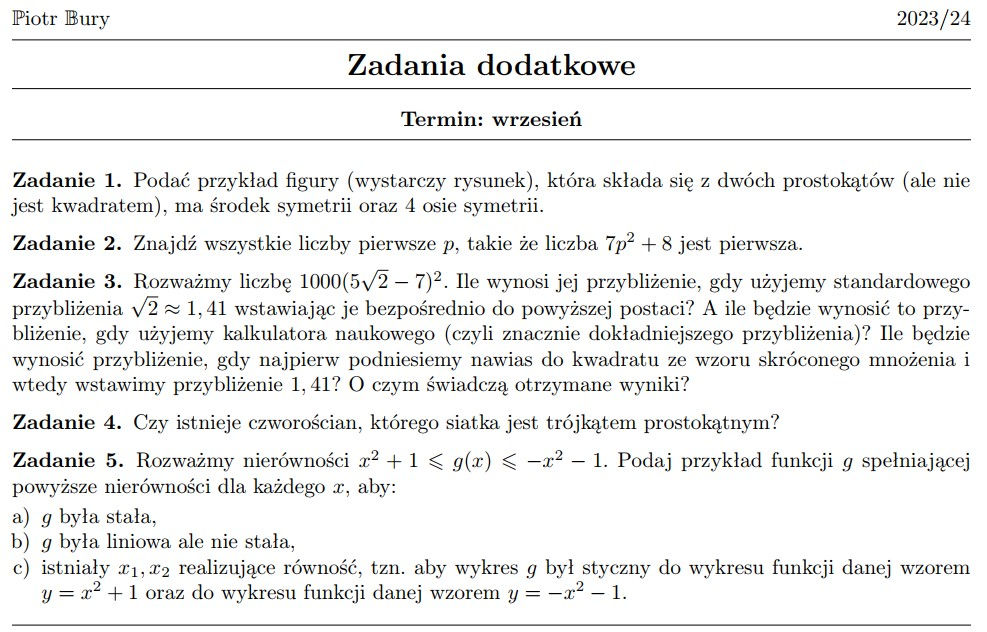
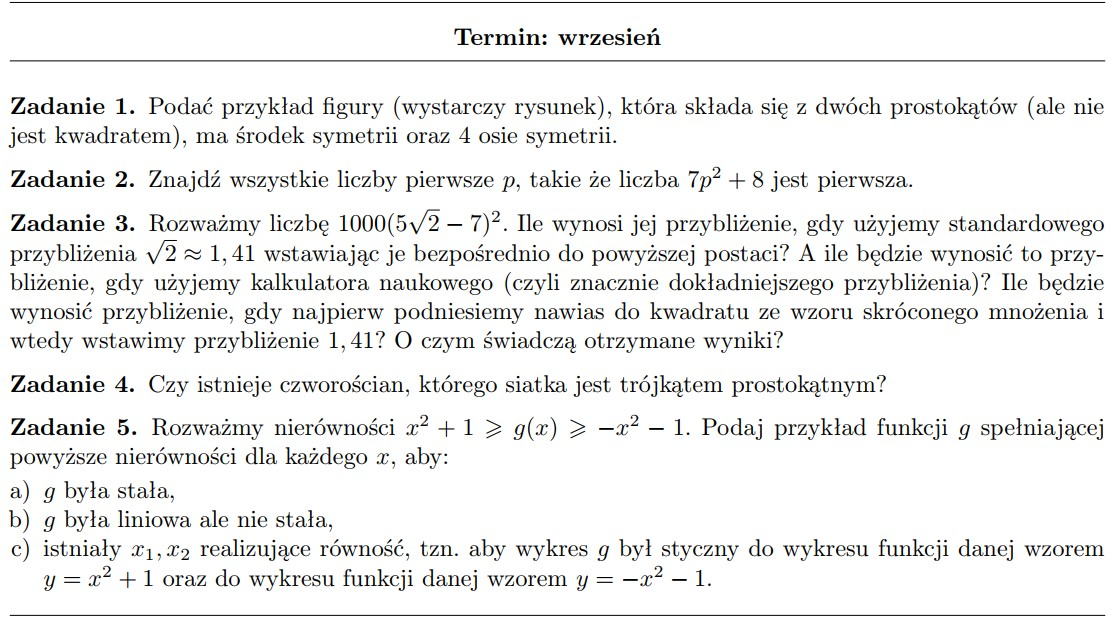
konkursy

Changed region(s): [[0.0, 0.2758, 1.0, 0.95], [0.0, 0.0, 1.0, 0.2452], [0.0, 0.9806, 1.0, 1.0]]

diff --git a/zadania.html b/zadania.html
@@ -81,7 +81,7 @@
 	<h6 class="mb-4">Rozwiązania zadań proszę przynieść osobiście w formie papierowej. W wyjątkowych sytuacjach można przeskać skan lub zdjęcie. Nie trzeba zrobić wszystkich zadań - każde będzie sukcesem. Zadanie nie muszą też być rozwiązanie w całości.</h6>    
  <img src="images/zada.jpg" alt="TEST"><br><br>
  <h5 class = "mb-4">
-
+<span style="color: red">UWAGA: W zadaniu 5 był błąd w treśći. Nierówność była w drugą stronę, co sprawiało, że nierówność była sprzeczna.</span><br>
 	<a href='media/rozw22.pdf'>Rozwiązania wszystkich zadań z roku szkolnego 2022-23</a></br>
             <a href='media/rozw21.pdf'>Rozwiązania wszystkich zadań z roku szkolnego 2021-22</a></br>
    

diff --git a/index.html b/index.html
@@ -88,9 +88,9 @@
  <h5 class="mb-4">
 
 <span style="color: red">18.09.2023 (Poniedziałek) - 3F - Sprawdzian - Wyrażenia wymierne</span><br>
-<span style="color: red">20.09.2023 (Środa) - 2F - Kartkówka bieżąca</span><br>
 <span style="color: red">25.09.2023 (Poniedziałek) - 2G - Sprawdzian - Przekształcenia wykresów funkcji</span><br>
 <span style="color: red">29.09.2023 - 2F/3F - Artykuł o Dobble</span><br>
+<span style="color: red">02.10.2023 (Poniedziałek) - 2F - Sprawdzian - Trygonometria</span><br>
 </h5>
          <p> <img src="images/konkurs.png" alt="TEST"></p>
 
